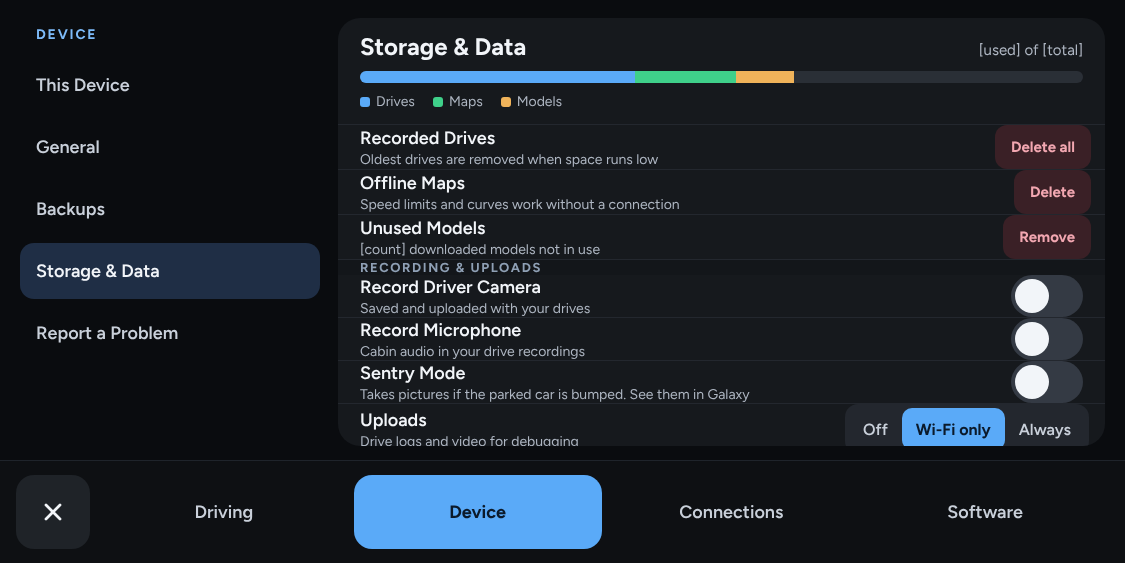
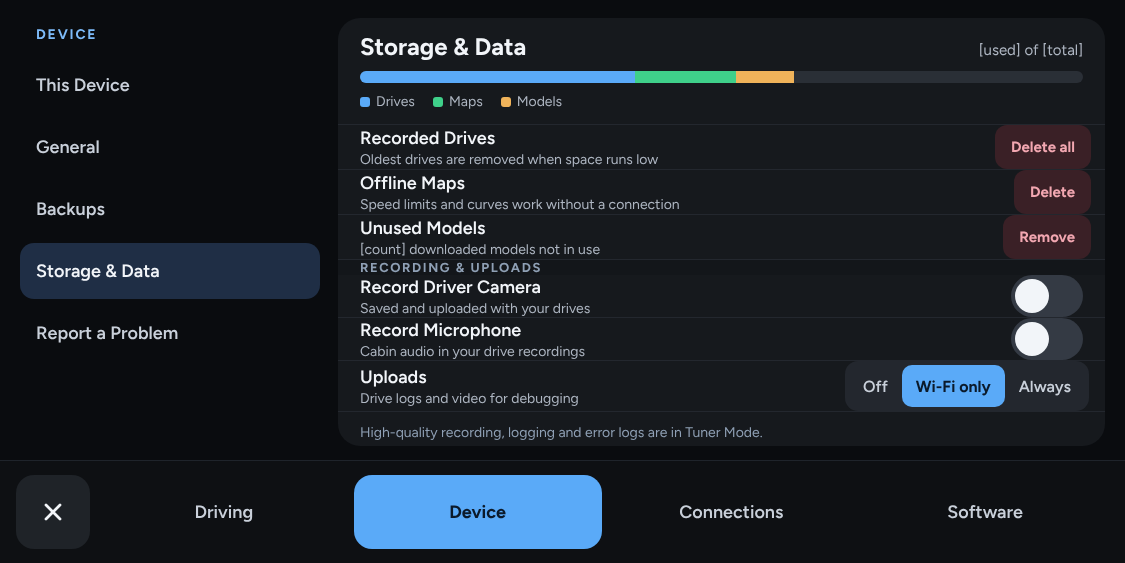
Mock: Sentry Mode under Assistance (for approval), not Storage & Data
Moves the proposed Sentry Mode switch to Assistance's Driver Monitoring
card, in a While parked section with a Sensitivity choice (Low, Standard,
High). The card's rows are 62 px instead of 78 to fit. Storage & Data goes
back to its approved mock. Not built yet.

Claude-Session: https://claude.ai/code/session_01R4pPc2hcx88Dbjjec1p8WC

Changed region(s): [[0.3111, 0.6341, 0.6844, 0.8153], [0.7467, 0.6341, 0.9644, 0.8153]]

diff --git a/selfdrive/ui/tandem/design/assistance.html b/selfdrive/ui/tandem/design/assistance.html
@@ -37,17 +37,32 @@ a{color:#5AAAF8}a:hover{color:#8CC4FA}
     </div>
     <div style="flex-grow: 1; min-width: 0; background: #16191D; border-radius: 22px; display: flex; flex-direction: column; overflow: hidden;">
       <div style="padding: 12px 22px 8px; border-bottom: 1px solid #23272E; display: flex; flex-direction: column; gap: 3px; flex-shrink: 0;"><h2 style="margin: 0; font-size: 24px; font-weight: 700;">Driver Monitoring</h2><span style="font-size: 14px; color: #AEB6C2;">Watches that you're paying attention</span></div>
-      <div style="display: flex; align-items: center; gap: 16px; padding: 0 14px 0 22px; height: 78px; border-bottom: 1px solid #23272E; flex-shrink: 0;">
+      <div style="display: flex; align-items: center; gap: 16px; padding: 0 14px 0 22px; height: 62px; border-bottom: 1px solid #23272E; flex-shrink: 0;">
         <div style="flex-grow: 1; display: flex; flex-direction: column; gap: 2px; min-width: 0;"><span style="font-size: 18px; font-weight: 600;">Always-On Driver Monitoring</span><span style="font-size: 14px; color: #AEB6C2;">Watches for distraction even when openpilot is off</span></div>
         <button type="button" role="switch" aria-checked="false" style="width: 72px; height: 42px; border-radius: 21px; border: 0; background: #343A44; padding: 4px; display: flex; justify-content: flex-start; flex-shrink: 0;"><span style="width: 34px; height: 34px; border-radius: 17px; background: #F2F5F9; display: block;"></span></button>
       </div>
-      <div style="display: flex; align-items: center; gap: 16px; padding: 0 14px 0 22px; height: 78px; border-bottom: 1px solid #23272E; flex-shrink: 0;">
+      <div style="display: flex; align-items: center; gap: 16px; padding: 0 14px 0 22px; height: 62px; border-bottom: 1px solid #23272E; flex-shrink: 0;">
         <div style="flex-grow: 1; display: flex; flex-direction: column; gap: 2px; min-width: 0;"><span style="font-size: 18px; font-weight: 600;">Driver Camera</span><span style="font-size: 14px; color: #AEB6C2;">Check that it can see your face</span></div>
         <button type="button" style="font-family: inherit; height: 44px; padding: 0 18px; border: 0; border-radius: 12px; background: #23272E; color: #F2F5F9; font-size: 16px; font-weight: 700; flex-shrink: 0;">Preview</button>
       </div>
-      <div style="display: flex; align-items: center; gap: 16px; padding: 0 14px 0 22px; height: 78px; flex-shrink: 0;">
+      <div style="display: flex; align-items: center; gap: 16px; padding: 0 14px 0 22px; height: 62px; flex-shrink: 0;">
         <div style="flex-grow: 1; display: flex; flex-direction: column; gap: 2px; min-width: 0;"><span style="font-size: 18px; font-weight: 600;">Driver Monitoring</span><span style="font-size: 14px; color: #AEB6C2;">Forget which side of the car the driver sits on</span></div>
         <button type="button" style="font-family: inherit; height: 44px; padding: 0 18px; border: 0; border-radius: 12px; background: #23272E; color: #F2F5F9; font-size: 16px; font-weight: 700; flex-shrink: 0;">Reset</button>
+      </div>
+      <div style="padding: 0 22px; height: 30px; display: flex; align-items: flex-end; border-top: 1px solid #23272E; flex-shrink: 0;">
+        <span style="font-size: 13px; font-weight: 700; letter-spacing: 1.6px; color: #8FA0B5;">WHILE PARKED</span>
+      </div>
+      <div style="display: flex; align-items: center; gap: 16px; padding: 0 14px 0 22px; height: 62px; border-bottom: 1px solid #23272E; flex-shrink: 0;">
+        <div style="flex-grow: 1; display: flex; flex-direction: column; gap: 2px; min-width: 0;"><span style="font-size: 18px; font-weight: 600;">Sentry Mode</span><span style="font-size: 14px; color: #AEB6C2;">Pictures in Galaxy if the parked car is bumped</span></div>
+        <button type="button" role="switch" aria-checked="true" aria-label="Sentry Mode" style="width: 72px; height: 42px; border-radius: 21px; border: 0; background: #5AAAF8; padding: 4px; display: flex; justify-content: flex-end; flex-shrink: 0;"><span style="width: 34px; height: 34px; border-radius: 17px; background: #0B1A2B; display: block;"></span></button>
+      </div>
+      <div style="display: flex; align-items: center; gap: 16px; padding: 0 14px 0 22px; height: 62px; flex-shrink: 0;">
+        <div style="flex-grow: 1; display: flex; flex-direction: column; gap: 2px; min-width: 0;"><span style="font-size: 18px; font-weight: 600;">Sensitivity</span><span style="font-size: 14px; color: #AEB6C2;">High notices smaller bumps</span></div>
+        <div role="radiogroup" aria-label="Sentry sensitivity" style="display: flex; background: #23272E; border-radius: 13px; padding: 4px; flex-shrink: 0;">
+          <button type="button" role="radio" aria-checked="false" style="font-family: inherit; border: 0; background: transparent; color: #C9D0DA; height: 38px; padding: 0 14px; border-radius: 10px; font-size: 15px; font-weight: 600;">Low</button>
+          <button type="button" role="radio" aria-checked="true" style="font-family: inherit; border: 0; background: #5AAAF8; color: #0B1A2B; height: 38px; padding: 0 14px; border-radius: 10px; font-size: 15px; font-weight: 700;">Standard</button>
+          <button type="button" role="radio" aria-checked="false" style="font-family: inherit; border: 0; background: transparent; color: #C9D0DA; height: 38px; padding: 0 14px; border-radius: 10px; font-size: 15px; font-weight: 600;">High</button>
+        </div>
       </div>
     </div>
   </div>

diff --git a/selfdrive/ui/tandem/design/systemstorage.html b/selfdrive/ui/tandem/design/systemstorage.html
@@ -57,10 +57,6 @@ a{color:#7DBBF9}a:hover{color:#A9D3FB}
         <div style="flex-grow: 1; display: flex; flex-direction: column; gap: 2px;"><span style="font-size: 18px; font-weight: 600;">Record Microphone</span><span style="font-size: 14px; color: #AEB6C2;">Cabin audio in your drive recordings</span></div>
         <button type="button" role="switch" aria-checked="false" aria-label="Record Microphone" style="width: 72px; height: 42px; border-radius: 21px; border: 0; background: #343A44; padding: 4px; display: flex; justify-content: flex-start;"><span style="width: 34px; height: 34px; border-radius: 17px; background: #F2F5F9; display: block;"></span></button>
       </div>
-      <div style="display: flex; align-items: center; gap: 16px; padding: 0 22px; height: 58px; border-bottom: 1px solid #23272E;">
-        <div style="flex-grow: 1; display: flex; flex-direction: column; gap: 2px;"><span style="font-size: 18px; font-weight: 600;">Sentry Mode</span><span style="font-size: 14px; color: #AEB6C2;">Takes pictures if the parked car is bumped. See them in Galaxy</span></div>
-        <button type="button" role="switch" aria-checked="false" aria-label="Sentry Mode" style="width: 72px; height: 42px; border-radius: 21px; border: 0; background: #343A44; padding: 4px; display: flex; justify-content: flex-start;"><span style="width: 34px; height: 34px; border-radius: 17px; background: #F2F5F9; display: block;"></span></button>
-      </div>
       <div style="display: flex; align-items: center; gap: 16px; padding: 0 16px 0 22px; height: 58px; border-bottom: 1px solid #23272E;">
         <div style="flex-grow: 1; display: flex; flex-direction: column; gap: 2px;"><span style="font-size: 18px; font-weight: 600;">Uploads</span><span style="font-size: 14px; color: #AEB6C2;">Drive logs and video for debugging</span></div>
         <div role="radiogroup" aria-label="Uploads" style="display: flex; background: #23272E; border-radius: 13px; padding: 4px;">
